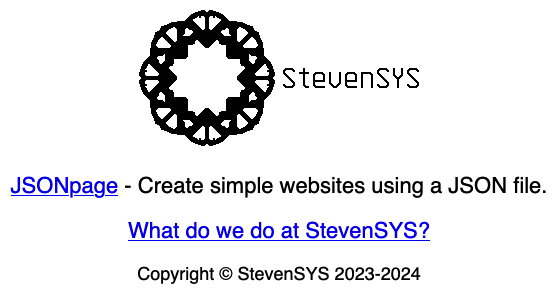
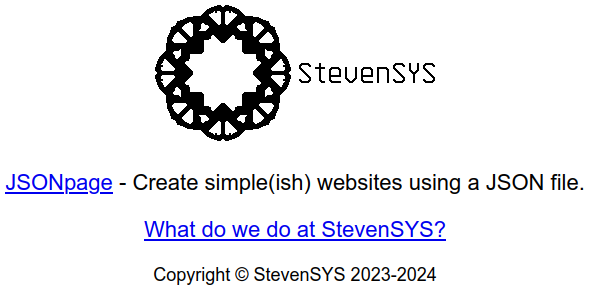
Not so simple anymore!

diff --git a/index.html b/index.html
@@ -2,33 +2,33 @@
 <html lang="en">
 	<head>
 		<title>StevenSYS - Homepage</title>
-		<link rel="icon" type="image/png" href="/Images/favicon.png">
-		<link rel="apple-touch-icon" sizes="192x192" href="/Images/faviconat.png">
+		<link rel="icon" type="image/png" href="Images/favicon.png">
+		<link rel="apple-touch-icon" sizes="192x192" href="Images/faviconat.png">
 		<script src="https://ajax.googleapis.com/ajax/libs/jquery/3.7.1/jquery.min.js"></script>
 		<script src="https://ajax.googleapis.com/ajax/libs/jqueryui/1.13.2/jquery-ui.min.js"></script>
-		<link rel="stylesheet" href="/style.css">
+		<link rel="stylesheet" href="style.css">
 	</head>
 	<body>
 		<div class="center">
-			<img src="/Images/Logo2x.png" alt="StevenSYS Logo">
+			<img src="Images/Logo2x.png" alt="StevenSYS Logo">
 			<p>
-				<a href="/jsonpage/">JSONpage</a>
-				- Create simple websites using a JSON file.
+				<a href="jsonpage/">JSONpage</a>
+				- Create simple(ish) websites using a JSON file.
 			</p>
 			<p>
-				<a href="/what">What do we do at StevenSYS?</a>
+				<a href="what">What do we do at StevenSYS?</a>
 			</p>
 			<p class="small">Copyright &#169; StevenSYS <script>if (new Date().getFullYear() > 2023) {document.write("2023-");} document.write(new Date().getFullYear());</script></p>
 		</div>
 
 		<div class="moveable">
-			<img src="/Images/Objects/SYSDLL.png" alt="SYSDLL" class="sysdll" style="display: none;" draggable="false">
-			<img src="/Images/Objects/Pumpkin.png" alt="Pumpkin" class="pumpkin" style="display: none;" draggable="false">
-			<img src="/Images/Objects/pumkan't.png" alt="pumkan't" class="pumkant" style="display: none;" draggable="false">
-			<img src="/Images/Objects/ChristmasTree.png" alt="Christmas Tree" class="tree" style="display: none;" draggable="false">
-			<img src="/Images/Objects/ChristmasPresent.png" alt="Christmas Present" class="present" style="display: none;" draggable="false">
-			<img src="/Images/Objects/SantaHat.png" alt="Santa Hat" class="santahat" style="display: none;" draggable="false">
-			<img src="/Images/Objects/CandyCane.png" alt="Candy Cane" class="candycane" style="display: none;" draggable="false">
+			<img src="Images/Objects/SYSDLL.png" alt="SYSDLL" class="sysdll" style="display: none;" draggable="false">
+			<img src="Images/Objects/Pumpkin.png" alt="Pumpkin" class="pumpkin" style="display: none;" draggable="false">
+			<img src="Images/Objects/pumkan't.png" alt="pumkan't" class="pumkant" style="display: none;" draggable="false">
+			<img src="Images/Objects/ChristmasTree.png" alt="Christmas Tree" class="tree" style="display: none;" draggable="false">
+			<img src="Images/Objects/ChristmasPresent.png" alt="Christmas Present" class="present" style="display: none;" draggable="false">
+			<img src="Images/Objects/SantaHat.png" alt="Santa Hat" class="santahat" style="display: none;" draggable="false">
+			<img src="Images/Objects/CandyCane.png" alt="Candy Cane" class="candycane" style="display: none;" draggable="false">
 		</div>
 
 		<div class="contextmenu">
@@ -65,6 +65,6 @@
 			<a href="javascript:void(0)" onmousedown="moveable('.sysdll');">SYSDLL</a>
 		</div>
 
-		<script src="/contextmenu.js"></script>
+		<script src="contextmenu.js"></script>
 	</body>
 </html>
